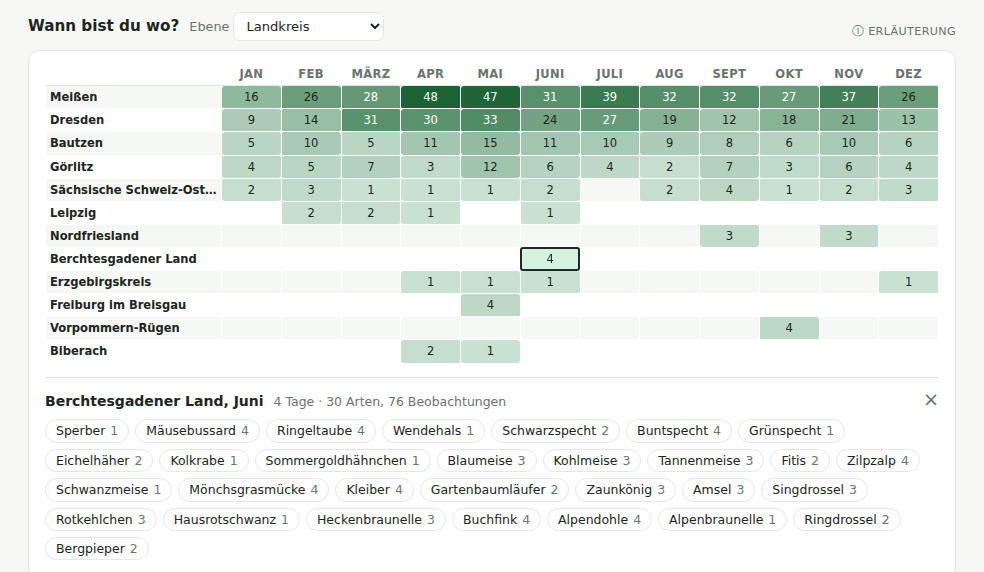
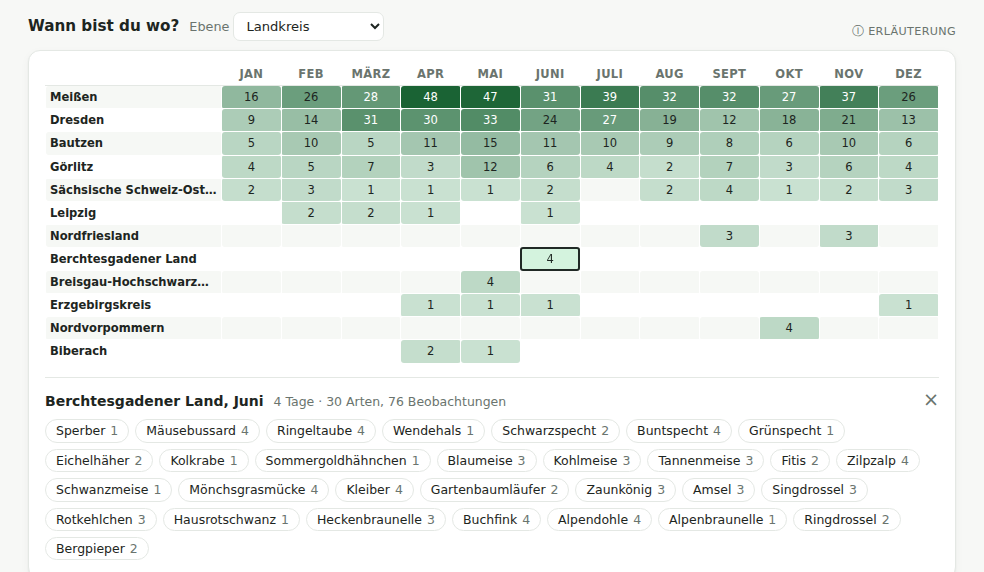
Bug: Use ornitho's own county codes, including starred districts
Rebuilt src/counties.js from ornitho.de's county lists: a "*" marks the
district around a city with the same code (A* = Landkreis Augsburg),
Mecklenburg-Vorpommern keeps its pre-2011 districts, Niedersachsen still
has Osterode am Harz, Bremerhaven is HBh, and a few codes were missing
(Ammerland WST, Schwabach SC, Landkreis Leipzig L*). lifelist.py now
reads starred codes too; before, a place in "(BY, A*)" lost its state
and county. Luxembourg gets its name as a state.

diff --git a/src/counties.js b/src/counties.js
@@ -1,26 +1,30 @@
 /* ---------- county names ---------- */
-// ornitho.de gives a place's county as "<state>/<code>" (from "Gemeinde (SN, GR)"), where the code is
-// the district's vehicle registration prefix. Where a city and the district around it share a prefix
-// (e.g. L, M, KS), both show the city's name. Unknown codes fall back to the bare code (see countyName()).
+// ornitho.de gives a place's county as "<state>/<code>" (from "Gemeinde (SN, GR)"). The codes follow
+// ornitho's own county list, mostly vehicle registration prefixes: a "*" marks the district around a
+// city of the same code (A = Augsburg, A* = Landkreis Augsburg), and Mecklenburg-Vorpommern and parts
+// of Niedersachsen keep the districts from before their reforms. Unknown codes show as the bare code
+// (see countyName()).
 const COUNTIES = Object.fromEntries(Object.entries({
-  SH: "FL:Flensburg KI:Kiel HL:Lübeck NMS:Neumünster HEI:Dithmarschen RZ:Herzogtum Lauenburg NF:Nordfriesland OH:Ostholstein PI:Pinneberg PLÖ:Plön RD:Rendsburg-Eckernförde SL:Schleswig-Flensburg SE:Segeberg IZ:Steinburg OD:Stormarn",
-  HH: "HH:Hamburg",
-  HB: "HB:Bremen BHV:Bremerhaven",
+  BW: "AA:Ostalbkreis BAD:Baden-Baden BB:Böblingen BC:Biberach BL:Zollernalbkreis CW:Calw EM:Emmendingen ES:Esslingen FDS:Freudenstadt FN:Bodenseekreis FR:Freiburg im Breisgau FR*:Breisgau-Hochschwarzwald GP:Göppingen HD:Heidelberg HD*:Rhein-Neckar-Kreis HDH:Heidenheim HN:Heilbronn HN*:Landkreis Heilbronn KA:Karlsruhe KA*:Landkreis Karlsruhe KN:Konstanz KÜN:Hohenlohekreis LB:Ludwigsburg LÖ:Lörrach MA:Mannheim MOS:Neckar-Odenwald-Kreis OG:Ortenaukreis PF:Pforzheim PF*:Enzkreis RA:Rastatt RT:Reutlingen RV:Ravensburg RW:Rottweil S:Stuttgart SHA:Schwäbisch Hall SIG:Sigmaringen TBB:Main-Tauber-Kreis TUT:Tuttlingen TÜ:Tübingen UL:Ulm UL*:Alb-Donau-Kreis VS:Schwarzwald-Baar-Kreis WN:Rems-Murr-Kreis WT:Waldshut",
+  BY: "A:Augsburg A*:Landkreis Augsburg AB:Aschaffenburg AB*:Landkreis Aschaffenburg AIC:Aichach-Friedberg AM:Amberg AN:Ansbach AN*:Landkreis Ansbach AS:Amberg-Sulzbach AÖ:Altötting BA:Bamberg BA*:Landkreis Bamberg BGL:Berchtesgadener Land BT:Bayreuth BT*:Landkreis Bayreuth CHA:Cham CO:Coburg CO*:Landkreis Coburg DAH:Dachau DEG:Deggendorf DGF:Dingolfing-Landau DLG:Dillingen an der Donau DON:Donau-Ries EBE:Ebersberg ED:Erding EI:Eichstätt ER:Erlangen ERH:Erlangen-Höchstadt FFB:Fürstenfeldbruck FO:Forchheim FRG:Freyung-Grafenau FS:Freising FÜ:Fürth FÜ*:Landkreis Fürth GAP:Garmisch-Partenkirchen GZ:Günzburg HAS:Haßberge HO:Hof HO*:Landkreis Hof IN:Ingolstadt KC:Kronach KE:Kempten (Allgäu) KEH:Kelheim KF:Kaufbeuren KG:Bad Kissingen KT:Kitzingen KU:Kulmbach LA:Landshut LA*:Landkreis Landshut LAU:Nürnberger Land LI:Lindau (Bodensee) LIF:Lichtenfels LL:Landsberg am Lech M:München M*:Landkreis München MB:Miesbach MIL:Miltenberg MM:Memmingen MN:Unterallgäu MSP:Main-Spessart MÜ:Mühldorf am Inn N:Nürnberg ND:Neuburg-Schrobenhausen NEA:Neustadt an der Aisch-Bad Windsheim NES:Rhön-Grabfeld NEW:Neustadt an der Waldnaab NM:Neumarkt in der Oberpfalz NU:Neu-Ulm OA:Oberallgäu OAL:Ostallgäu PA:Passau PA*:Landkreis Passau PAF:Pfaffenhofen an der Ilm PAN:Rottal-Inn R:Regensburg R*:Landkreis Regensburg REG:Regen RH:Roth RO:Rosenheim RO*:Landkreis Rosenheim SAD:Schwandorf SC:Schwabach SR:Straubing SR*:Straubing-Bogen STA:Starnberg SW:Schweinfurt SW*:Landkreis Schweinfurt TIR:Tirschenreuth TS:Traunstein TÖL:Bad Tölz-Wolfratshausen WEN:Weiden in der Oberpfalz WM:Weilheim-Schongau WUG:Weißenburg-Gunzenhausen WUN:Wunsiedel im Fichtelgebirge WÜ:Würzburg WÜ*:Landkreis Würzburg",
   BE: "B:Berlin",
-  NI: "BS:Braunschweig SZ:Salzgitter WOB:Wolfsburg GF:Gifhorn GS:Goslar HE:Helmstedt NOM:Northeim PE:Peine WF:Wolfenbüttel GÖ:Göttingen H:Region Hannover DH:Diepholz HM:Hameln-Pyrmont HI:Hildesheim HOL:Holzminden NI:Nienburg (Weser) SHG:Schaumburg CE:Celle CUX:Cuxhaven HK:Heidekreis LG:Lüneburg OHZ:Osterholz ROW:Rotenburg (Wümme) STD:Stade UE:Uelzen VER:Verden WL:Harburg DAN:Lüchow-Dannenberg DEL:Delmenhorst EMD:Emden OL:Oldenburg OS:Osnabrück WHV:Wilhelmshaven AUR:Aurich CLP:Cloppenburg EL:Emsland FRI:Friesland NOH:Grafschaft Bentheim LER:Leer VEC:Vechta BRA:Wesermarsch WTM:Wittmund",
-  NW: "D:Düsseldorf DU:Duisburg E:Essen KR:Krefeld MG:Mönchengladbach MH:Mülheim an der Ruhr OB:Oberhausen RS:Remscheid SG:Solingen W:Wuppertal KLE:Kleve ME:Mettmann NE:Rhein-Kreis Neuss VIE:Viersen WES:Wesel BN:Bonn K:Köln LEV:Leverkusen AC:Städteregion Aachen DN:Düren BM:Rhein-Erft-Kreis EU:Euskirchen HS:Heinsberg GM:Oberbergischer Kreis GL:Rheinisch-Bergischer Kreis SU:Rhein-Sieg-Kreis BOT:Bottrop GE:Gelsenkirchen MS:Münster BOR:Borken COE:Coesfeld RE:Recklinghausen ST:Steinfurt WAF:Warendorf BI:Bielefeld GT:Gütersloh HF:Herford HX:Höxter LIP:Lippe MI:Minden-Lübbecke PB:Paderborn BO:Bochum DO:Dortmund HA:Hagen HAM:Hamm HER:Herne EN:Ennepe-Ruhr-Kreis HSK:Hochsauerlandkreis MK:Märkischer Kreis OE:Olpe SI:Siegen-Wittgenstein SO:Soest UN:Unna",
-  HE: "DA:Darmstadt F:Frankfurt am Main OF:Offenbach WI:Wiesbaden HP:Bergstraße DI:Darmstadt-Dieburg GG:Groß-Gerau HG:Hochtaunuskreis MKK:Main-Kinzig-Kreis MTK:Main-Taunus-Kreis ERB:Odenwaldkreis RÜD:Rheingau-Taunus-Kreis FB:Wetteraukreis GI:Gießen LDK:Lahn-Dill-Kreis LM:Limburg-Weilburg MR:Marburg-Biedenkopf VB:Vogelsbergkreis KS:Kassel FD:Fulda HEF:Hersfeld-Rotenburg KB:Waldeck-Frankenberg HR:Schwalm-Eder-Kreis ESW:Werra-Meißner-Kreis",
-  RP: "KO:Koblenz AK:Altenkirchen AW:Ahrweiler BIR:Birkenfeld COC:Cochem-Zell EMS:Rhein-Lahn-Kreis KH:Bad Kreuznach MYK:Mayen-Koblenz NR:Neuwied SIM:Rhein-Hunsrück-Kreis WW:Westerwaldkreis TR:Trier BIT:Eifelkreis Bitburg-Prüm DAU:Vulkaneifel WIL:Bernkastel-Wittlich FT:Frankenthal KL:Kaiserslautern LD:Landau in der Pfalz LU:Ludwigshafen am Rhein MZ:Mainz NW:Neustadt an der Weinstraße PS:Pirmasens SP:Speyer WO:Worms ZW:Zweibrücken AZ:Alzey-Worms DÜW:Bad Dürkheim KIB:Donnersbergkreis GER:Germersheim KUS:Kusel SÜW:Südliche Weinstraße RP:Rhein-Pfalz-Kreis",
-  BW: "S:Stuttgart BB:Böblingen ES:Esslingen GP:Göppingen LB:Ludwigsburg WN:Rems-Murr-Kreis HN:Heilbronn KÜN:Hohenlohekreis SHA:Schwäbisch Hall TBB:Main-Tauber-Kreis HDH:Heidenheim AA:Ostalbkreis BAD:Baden-Baden KA:Karlsruhe RA:Rastatt HD:Heidelberg MA:Mannheim MOS:Neckar-Odenwald-Kreis PF:Pforzheim CW:Calw FDS:Freudenstadt FR:Freiburg im Breisgau EM:Emmendingen OG:Ortenaukreis RW:Rottweil VS:Schwarzwald-Baar-Kreis TUT:Tuttlingen KN:Konstanz LÖ:Lörrach WT:Waldshut RT:Reutlingen TÜ:Tübingen BL:Zollernalbkreis UL:Ulm BC:Biberach FN:Bodenseekreis RV:Ravensburg SIG:Sigmaringen",
-  BY: "M:München A:Augsburg N:Nürnberg R:Regensburg IN:Ingolstadt WÜ:Würzburg ER:Erlangen FÜ:Fürth BA:Bamberg BT:Bayreuth CO:Coburg HO:Hof AB:Aschaffenburg SW:Schweinfurt KE:Kempten (Allgäu) KF:Kaufbeuren MM:Memmingen LA:Landshut PA:Passau SR:Straubing AM:Amberg WEN:Weiden in der Oberpfalz RO:Rosenheim AIC:Aichach-Friedberg AÖ:Altötting AS:Amberg-Sulzbach AN:Ansbach BGL:Berchtesgadener Land CHA:Cham DAH:Dachau DEG:Deggendorf DLG:Dillingen an der Donau DGF:Dingolfing-Landau DON:Donau-Ries EBE:Ebersberg ED:Erding EI:Eichstätt ERH:Erlangen-Höchstadt FO:Forchheim FS:Freising FRG:Freyung-Grafenau FFB:Fürstenfeldbruck GAP:Garmisch-Partenkirchen GZ:Günzburg HAS:Haßberge KEH:Kelheim KG:Bad Kissingen KC:Kronach KT:Kitzingen KU:Kulmbach LAU:Nürnberger Land LI:Lindau (Bodensee) LIF:Lichtenfels LL:Landsberg am Lech MB:Miesbach MIL:Miltenberg MN:Unterallgäu MÜ:Mühldorf am Inn MSP:Main-Spessart ND:Neuburg-Schrobenhausen NEA:Neustadt an der Aisch-Bad Windsheim NES:Rhön-Grabfeld NEW:Neustadt an der Waldnaab NM:Neumarkt in der Oberpfalz NU:Neu-Ulm OA:Oberallgäu OAL:Ostallgäu PAF:Pfaffenhofen an der Ilm PAN:Rottal-Inn REG:Regen RH:Roth SAD:Schwandorf STA:Starnberg TIR:Tirschenreuth TÖL:Bad Tölz-Wolfratshausen TS:Traunstein WM:Weilheim-Schongau WUG:Weißenburg-Gunzenhausen WUN:Wunsiedel im Fichtelgebirge",
-  SL: "SB:Regionalverband Saarbrücken MZG:Merzig-Wadern NK:Neunkirchen SLS:Saarlouis HOM:Saarpfalz-Kreis WND:St. Wendel",
-  BB: "P:Potsdam BRB:Brandenburg an der Havel CB:Cottbus FF:Frankfurt (Oder) BAR:Barnim LDS:Dahme-Spreewald EE:Elbe-Elster HVL:Havelland MOL:Märkisch-Oderland OHV:Oberhavel OSL:Oberspreewald-Lausitz LOS:Oder-Spree OPR:Ostprignitz-Ruppin PM:Potsdam-Mittelmark PR:Prignitz SPN:Spree-Neiße TF:Teltow-Fläming UM:Uckermark",
-  MV: "HRO:Rostock SN:Schwerin LRO:Landkreis Rostock LUP:Ludwigslust-Parchim MSE:Mecklenburgische Seenplatte NWM:Nordwestmecklenburg VG:Vorpommern-Greifswald VR:Vorpommern-Rügen",
-  SN: "C:Chemnitz DD:Dresden L:Leipzig BZ:Bautzen ERZ:Erzgebirgskreis GR:Görlitz MEI:Meißen FG:Mittelsachsen TDO:Nordsachsen PIR:Sächsische Schweiz-Osterzgebirge V:Vogtlandkreis Z:Zwickau",
-  ST: "DE:Dessau-Roßlau HAL:Halle (Saale) MD:Magdeburg SAW:Altmarkkreis Salzwedel ABI:Anhalt-Bitterfeld BK:Börde BLK:Burgenlandkreis HZ:Harz JL:Jerichower Land MSH:Mansfeld-Südharz SK:Saalekreis SLK:Salzlandkreis SDL:Stendal WB:Wittenberg",
-  TH: "EF:Erfurt G:Gera J:Jena SHL:Suhl WE:Weimar EA:Eisenach EIC:Eichsfeld GTH:Gotha GRZ:Greiz HBN:Hildburghausen IK:Ilm-Kreis KYF:Kyffhäuserkreis NDH:Nordhausen SHK:Saale-Holzland-Kreis SOK:Saale-Orla-Kreis SLF:Saalfeld-Rudolstadt SM:Schmalkalden-Meiningen SON:Sonneberg UH:Unstrut-Hainich-Kreis AP:Weimarer Land WAK:Wartburgkreis ABG:Altenburger Land SÖM:Sömmerda",
-  // the codes are separated by spaces, but names may contain spaces too: split before every "CODE:"
-}).flatMap(([state, list]) => list.split(/ (?=[A-ZÄÖÜ]+:)/).map(entry => {
+  BB: "BAR:Barnim BRB:Brandenburg an der Havel CB:Cottbus EE:Elbe-Elster FF:Frankfurt (Oder) HVL:Havelland LDS:Dahme-Spreewald LOS:Oder-Spree MOL:Märkisch-Oderland OHV:Oberhavel OPR:Ostprignitz-Ruppin OSL:Oberspreewald-Lausitz P:Potsdam PM:Potsdam-Mittelmark PR:Prignitz SPN:Spree-Neiße TF:Teltow-Fläming UM:Uckermark",
+  HB: "HB:Bremen HBh:Bremerhaven",
+  HH: "HH:Hamburg",
+  HE: "DA:Darmstadt DA*:Darmstadt-Dieburg ERB:Odenwaldkreis ESW:Werra-Meißner-Kreis F*:Frankfurt am Main FB:Wetteraukreis FD:Fulda GG:Groß-Gerau GI:Gießen HEF:Hersfeld-Rotenburg HG:Hochtaunuskreis HP:Bergstraße HR:Schwalm-Eder-Kreis KB:Waldeck-Frankenberg KS:Kassel KS*:Landkreis Kassel LDK:Lahn-Dill-Kreis LM:Limburg-Weilburg MKK:Main-Kinzig-Kreis MR:Marburg-Biedenkopf MTK:Main-Taunus-Kreis OF:Offenbach am Main OF*:Landkreis Offenbach RÜD:Rheingau-Taunus-Kreis VB:Vogelsbergkreis WI:Wiesbaden",
+  MV: "DBR:Bad Doberan DM:Demmin GÜ:Güstrow HGW:Greifswald HRO:Rostock HST:Stralsund HWI:Wismar LWL:Ludwigslust MST:Mecklenburg-Strelitz MÜR:Müritz NB:Neubrandenburg NVP:Nordvorpommern NWM:Nordwestmecklenburg OVP:Ostvorpommern PCH:Parchim RÜG:Rügen SN:Schwerin UER:Uecker-Randow",
+  NI: "AUR:Aurich BRA:Wesermarsch BS:Braunschweig CE:Celle CLP:Cloppenburg CUX:Cuxhaven DAN:Lüchow-Dannenberg DEL:Delmenhorst DH:Diepholz EL:Emsland EMD:Emden FRI:Friesland GF:Gifhorn GS:Goslar GÖ:Göttingen H:Region Hannover HE:Helmstedt HI:Hildesheim HK:Heidekreis HM:Hameln-Pyrmont HOL:Holzminden LER:Leer LG:Lüneburg NI:Nienburg (Weser) NOH:Grafschaft Bentheim NOM:Northeim OHA:Osterode am Harz OHZ:Osterholz OL:Oldenburg OL*:Landkreis Oldenburg OS:Osnabrück OS*:Landkreis Osnabrück PE:Peine ROW:Rotenburg (Wümme) SHG:Schaumburg STD:Stade SZ:Salzgitter UE:Uelzen VEC:Vechta VER:Verden WF:Wolfenbüttel WHV:Wilhelmshaven WL:Harburg WOB:Wolfsburg WST:Ammerland WTM:Wittmund",
+  NW: "AC:Aachen AC*:Städteregion Aachen BI:Bielefeld BM:Rhein-Erft-Kreis BN:Bonn BO:Bochum BOR:Borken BOT:Bottrop COE:Coesfeld D:Düsseldorf DN:Düren DO:Dortmund DU:Duisburg E:Essen EN:Ennepe-Ruhr-Kreis EU:Euskirchen GE:Gelsenkirchen GL:Rheinisch-Bergischer Kreis GM:Oberbergischer Kreis GT:Gütersloh HA:Hagen HAM:Hamm HER:Herne HF:Herford HS:Heinsberg HSK:Hochsauerlandkreis HX:Höxter K:Köln KLE:Kleve KR:Krefeld LEV:Leverkusen LIP:Lippe ME:Mettmann MG:Mönchengladbach MH:Mülheim an der Ruhr MI:Minden-Lübbecke MK:Märkischer Kreis MS:Münster NE:Rhein-Kreis Neuss OB:Oberhausen OE:Olpe PB:Paderborn RE:Recklinghausen RS:Remscheid SG:Solingen SI:Siegen-Wittgenstein SO:Soest ST:Steinfurt SU:Rhein-Sieg-Kreis UN:Unna VIE:Viersen W:Wuppertal WAF:Warendorf WES:Wesel",
+  RP: "AK:Altenkirchen AW:Ahrweiler AZ:Alzey-Worms BIR:Birkenfeld BIT:Eifelkreis Bitburg-Prüm COC:Cochem-Zell DAU:Vulkaneifel DÜW:Bad Dürkheim EMS:Rhein-Lahn-Kreis FT:Frankenthal GER:Germersheim KH:Bad Kreuznach KIB:Donnersbergkreis KL:Kaiserslautern KL*:Landkreis Kaiserslautern KO:Koblenz KUS:Kusel LD:Landau in der Pfalz LU:Ludwigshafen am Rhein MYK:Mayen-Koblenz MZ:Mainz MZ*:Mainz-Bingen NR:Neuwied NW:Neustadt an der Weinstraße PS:Pirmasens PS*:Südwestpfalz RP:Rhein-Pfalz-Kreis SIM:Rhein-Hunsrück-Kreis SP:Speyer SÜW:Südliche Weinstraße TR:Trier TR*:Trier-Saarburg WIL:Bernkastel-Wittlich WO:Worms WW:Westerwaldkreis ZW:Zweibrücken",
+  SL: "HOM:Saarpfalz-Kreis MZG:Merzig-Wadern NK:Neunkirchen SB:Regionalverband Saarbrücken SLS:Saarlouis WND:St. Wendel",
+  SN: "BZ:Bautzen C:Chemnitz DD:Dresden ERZ:Erzgebirgskreis FG:Mittelsachsen GR:Görlitz L:Leipzig L*:Landkreis Leipzig MEI:Meißen PIR:Sächsische Schweiz-Osterzgebirge TDO:Nordsachsen V:Vogtlandkreis Z:Zwickau",
+  ST: "ABI:Anhalt-Bitterfeld BK:Börde BLK:Burgenlandkreis DE:Dessau-Roßlau HAL:Halle (Saale) HZ:Harz JL:Jerichower Land MD:Magdeburg MSH:Mansfeld-Südharz SAW:Altmarkkreis Salzwedel SDL:Stendal SK:Saalekreis SLK:Salzlandkreis WB:Wittenberg",
+  SH: "FL:Flensburg HEI:Dithmarschen HL:Lübeck IZ:Steinburg KI:Kiel NF:Nordfriesland NMS:Neumünster OD:Stormarn OH:Ostholstein PI:Pinneberg PLÖ:Plön RD:Rendsburg-Eckernförde RZ:Herzogtum Lauenburg SE:Segeberg SL:Schleswig-Flensburg",
+  TH: "ABG:Altenburger Land AP:Weimarer Land EA:Eisenach EF:Erfurt EIC:Eichsfeld G:Gera GRZ:Greiz GTH:Gotha HBN:Hildburghausen IK:Ilm-Kreis J:Jena KYF:Kyffhäuserkreis NDH:Nordhausen SHK:Saale-Holzland-Kreis SHL:Suhl SLF:Saalfeld-Rudolstadt SM:Schmalkalden-Meiningen SOK:Saale-Orla-Kreis SON:Sonneberg SÖM:Sömmerda UH:Unstrut-Hainich-Kreis WAK:Wartburgkreis WE:Weimar",
+  LU: "LUX:Luxemburg",
+  // not named (yet): ASH, AMV and AW/AWN, which look like coastal and offshore areas
+  // entries are "CODE:Name" separated by spaces, and names may contain spaces too: split before every "CODE:"
+}).flatMap(([state, list]) => list.split(/ (?=[A-ZÄÖÜ][A-ZÄÖÜa-z]*\*?:)/).map(entry => {
   const [code, name] = entry.split(/:(.*)/s);
   return [`${state}/${code}`, name];
 })));

diff --git a/src/i18n.js b/src/i18n.js
@@ -107,7 +107,7 @@ de: {
   monthsShort: ["Jan.","Feb.","März","Apr.","Mai","Juni","Juli","Aug.","Sept.","Okt.","Nov.","Dez."],
   states: {BW:"Baden-Württemberg",BY:"Bayern",BE:"Berlin",BB:"Brandenburg",HB:"Bremen",HH:"Hamburg",HE:"Hessen",
     MV:"Mecklenburg-Vorpommern",NI:"Niedersachsen",NW:"Nordrhein-Westfalen",RP:"Rheinland-Pfalz",SL:"Saarland",
-    SN:"Sachsen",ST:"Sachsen-Anhalt",SH:"Schleswig-Holstein",TH:"Thüringen"},
+    SN:"Sachsen",ST:"Sachsen-Anhalt",SH:"Schleswig-Holstein",TH:"Thüringen",LU:"Luxemburg"},
   unknown: "Unbekannt"
 },
 en: {
@@ -215,7 +215,7 @@ en: {
   monthsShort: ["Jan","Feb","Mar","Apr","May","Jun","Jul","Aug","Sep","Oct","Nov","Dec"],
   states: {BW:"Baden-Württemberg",BY:"Bavaria",BE:"Berlin",BB:"Brandenburg",HB:"Bremen",HH:"Hamburg",HE:"Hesse",
     MV:"Mecklenburg-Western Pomerania",NI:"Lower Saxony",NW:"North Rhine-Westphalia",RP:"Rhineland-Palatinate",SL:"Saarland",
-    SN:"Saxony",ST:"Saxony-Anhalt",SH:"Schleswig-Holstein",TH:"Thuringia"},
+    SN:"Saxony",ST:"Saxony-Anhalt",SH:"Schleswig-Holstein",TH:"Thuringia",LU:"Luxembourg"},
   unknown: "Unknown"
 }
 };

diff --git a/tools/make_demo_export.py b/tools/make_demo_export.py
@@ -37,14 +37,14 @@ PLACES = [
 # birding trips: first day, number of days, places (id, name, municipality, lat, lon, habitats)
 TRIPS = [
     ("2019-09-14", 3, [("30", "Hauke-Haien-Koog", "Reußenköge (SH, NF)", 54.605, 8.870, "coast water open")]),
-    ("2020-05-21", 3, [("31", "Müritz-Nationalpark, Boeker Mühle", "Rechlin (MV, MSE)", 53.378, 12.782, "water forest open")]),
-    ("2021-10-02", 4, [("32", "Pramort", "Zingst (MV, VR)", 54.438, 12.790, "coast open"),
-                       ("33", "Großer Werder", "Zingst (MV, VR)", 54.450, 12.703, "coast water")]),
+    ("2020-05-21", 3, [("31", "Müritz-Nationalpark, Boeker Mühle", "Rechlin (MV, MÜR)", 53.378, 12.782, "water forest open")]),
+    ("2021-10-02", 4, [("32", "Pramort", "Zingst (MV, NVP)", 54.438, 12.790, "coast open"),
+                       ("33", "Großer Werder", "Zingst (MV, NVP)", 54.450, 12.703, "coast water")]),
     ("2022-06-18", 4, [("34", "Jenner", "Schönau am Königssee (BY, BGL)", 47.577, 13.022, "alpine mountain rock forest")]),
     ("2022-10-08", 3, [("35", "Helgoland, Oberland", "Helgoland (SH, PI)", 54.183, 7.886, "sea coast")]),
     ("2023-04-29", 3, [("36", "Federsee", "Bad Buchau (BW, BC)", 48.068, 9.617, "water open forest")]),
     ("2023-10-21", 2, [("37", "Unteres Odertal, Criewen", "Schwedt/Oder (BB, UM)", 53.017, 14.233, "water open")]),
-    ("2024-05-09", 4, [("38", "Badberg", "Vogtsburg im Kaiserstuhl (BW, FR)", 48.101, 7.665, "south open forest")]),
+    ("2024-05-09", 4, [("38", "Badberg", "Vogtsburg im Kaiserstuhl (BW, FR*)", 48.101, 7.665, "south open forest")]),
     ("2024-09-28", 2, [("39", "Dümmer, Hüde", "Hüde (NI, DH)", 52.490, 8.345, "water open coast")]),
     ("2025-03-15", 2, [("40", "Kühkopf-Knoblochsaue", "Stockstadt am Rhein (HE, GG)", 49.825, 8.415, "water forest")]),
     ("2025-11-08", 3, [("30", "Hauke-Haien-Koog", "Reußenköge (SH, NF)", 54.605, 8.870, "coast water open")]),

diff --git a/tests/test_build.py b/tests/test_build.py
@@ -146,6 +146,15 @@ class UpdateCheckTest(unittest.TestCase):
 
 
 
+class MunicipalityTest(unittest.TestCase):
+    def test_county_codes(self):
+        self.assertEqual(lifelist.parse_municipality("Görlitz (SN, GR)"), ("Görlitz", "SN", "GR"))
+        # "*" marks the district around a city with the same code
+        self.assertEqual(lifelist.parse_municipality("Gersthofen (BY, A*)"), ("Gersthofen", "BY", "A*"))
+        self.assertEqual(lifelist.parse_municipality("Bremerhaven (HB, HBh)"), ("Bremerhaven", "HB", "HBh"))
+        self.assertEqual(lifelist.parse_municipality("irgendwo"), ("irgendwo", "", ""))
+
+
 class DemoExportTest(unittest.TestCase):
     def test_demo_export_builds(self):
         sys.path.insert(0, os.path.join(os.path.dirname(__file__), "..", "tools"))

diff --git a/lifelist.py b/lifelist.py
@@ -124,7 +124,8 @@ def atlas_code(o):
 
 
 def parse_municipality(text):
-    m = re.match(r"^(.*?)\s*\((\w+),\s*(\w+)\)$", text or "")
+    # county codes may end in "*": ornitho's mark for the district around a city of the same code (BY, A*)
+    m = re.match(r"^(.*?)\s*\((\w+),\s*([\w*]+)\)$", text or "")
     if m:
         return m.group(1), m.group(2), m.group(3)
     return (text or "").strip(), "", ""
